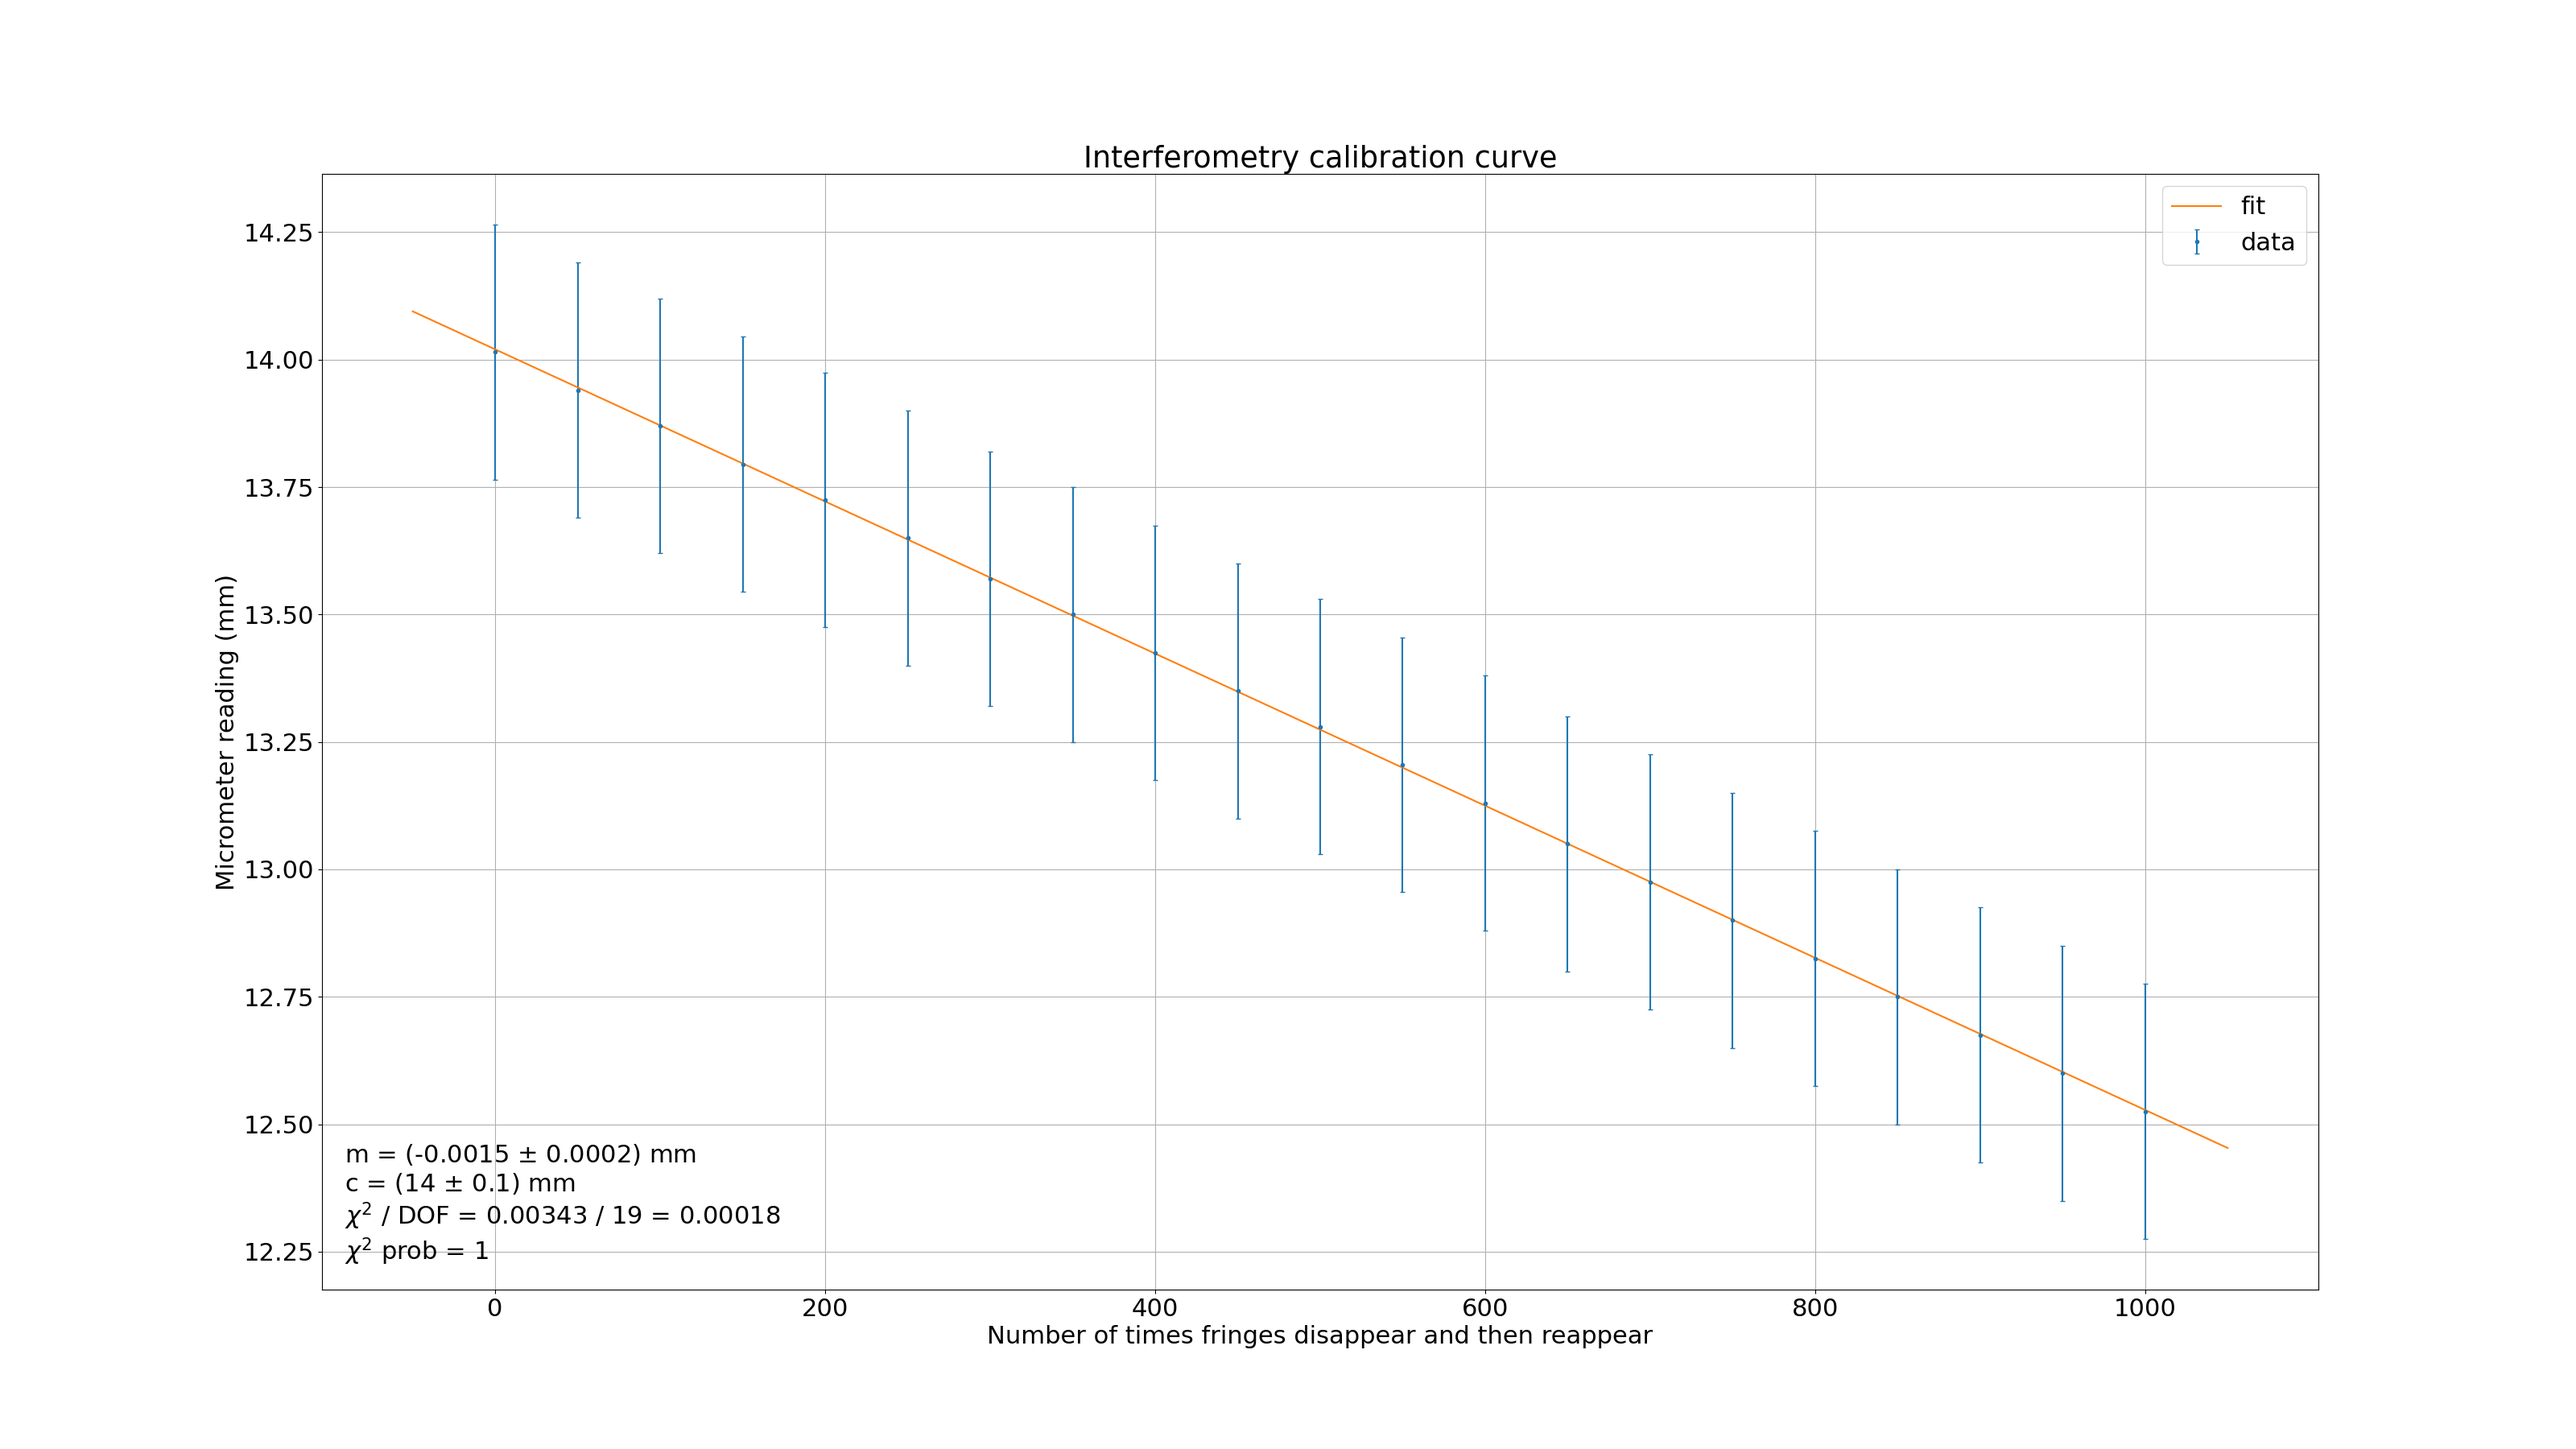
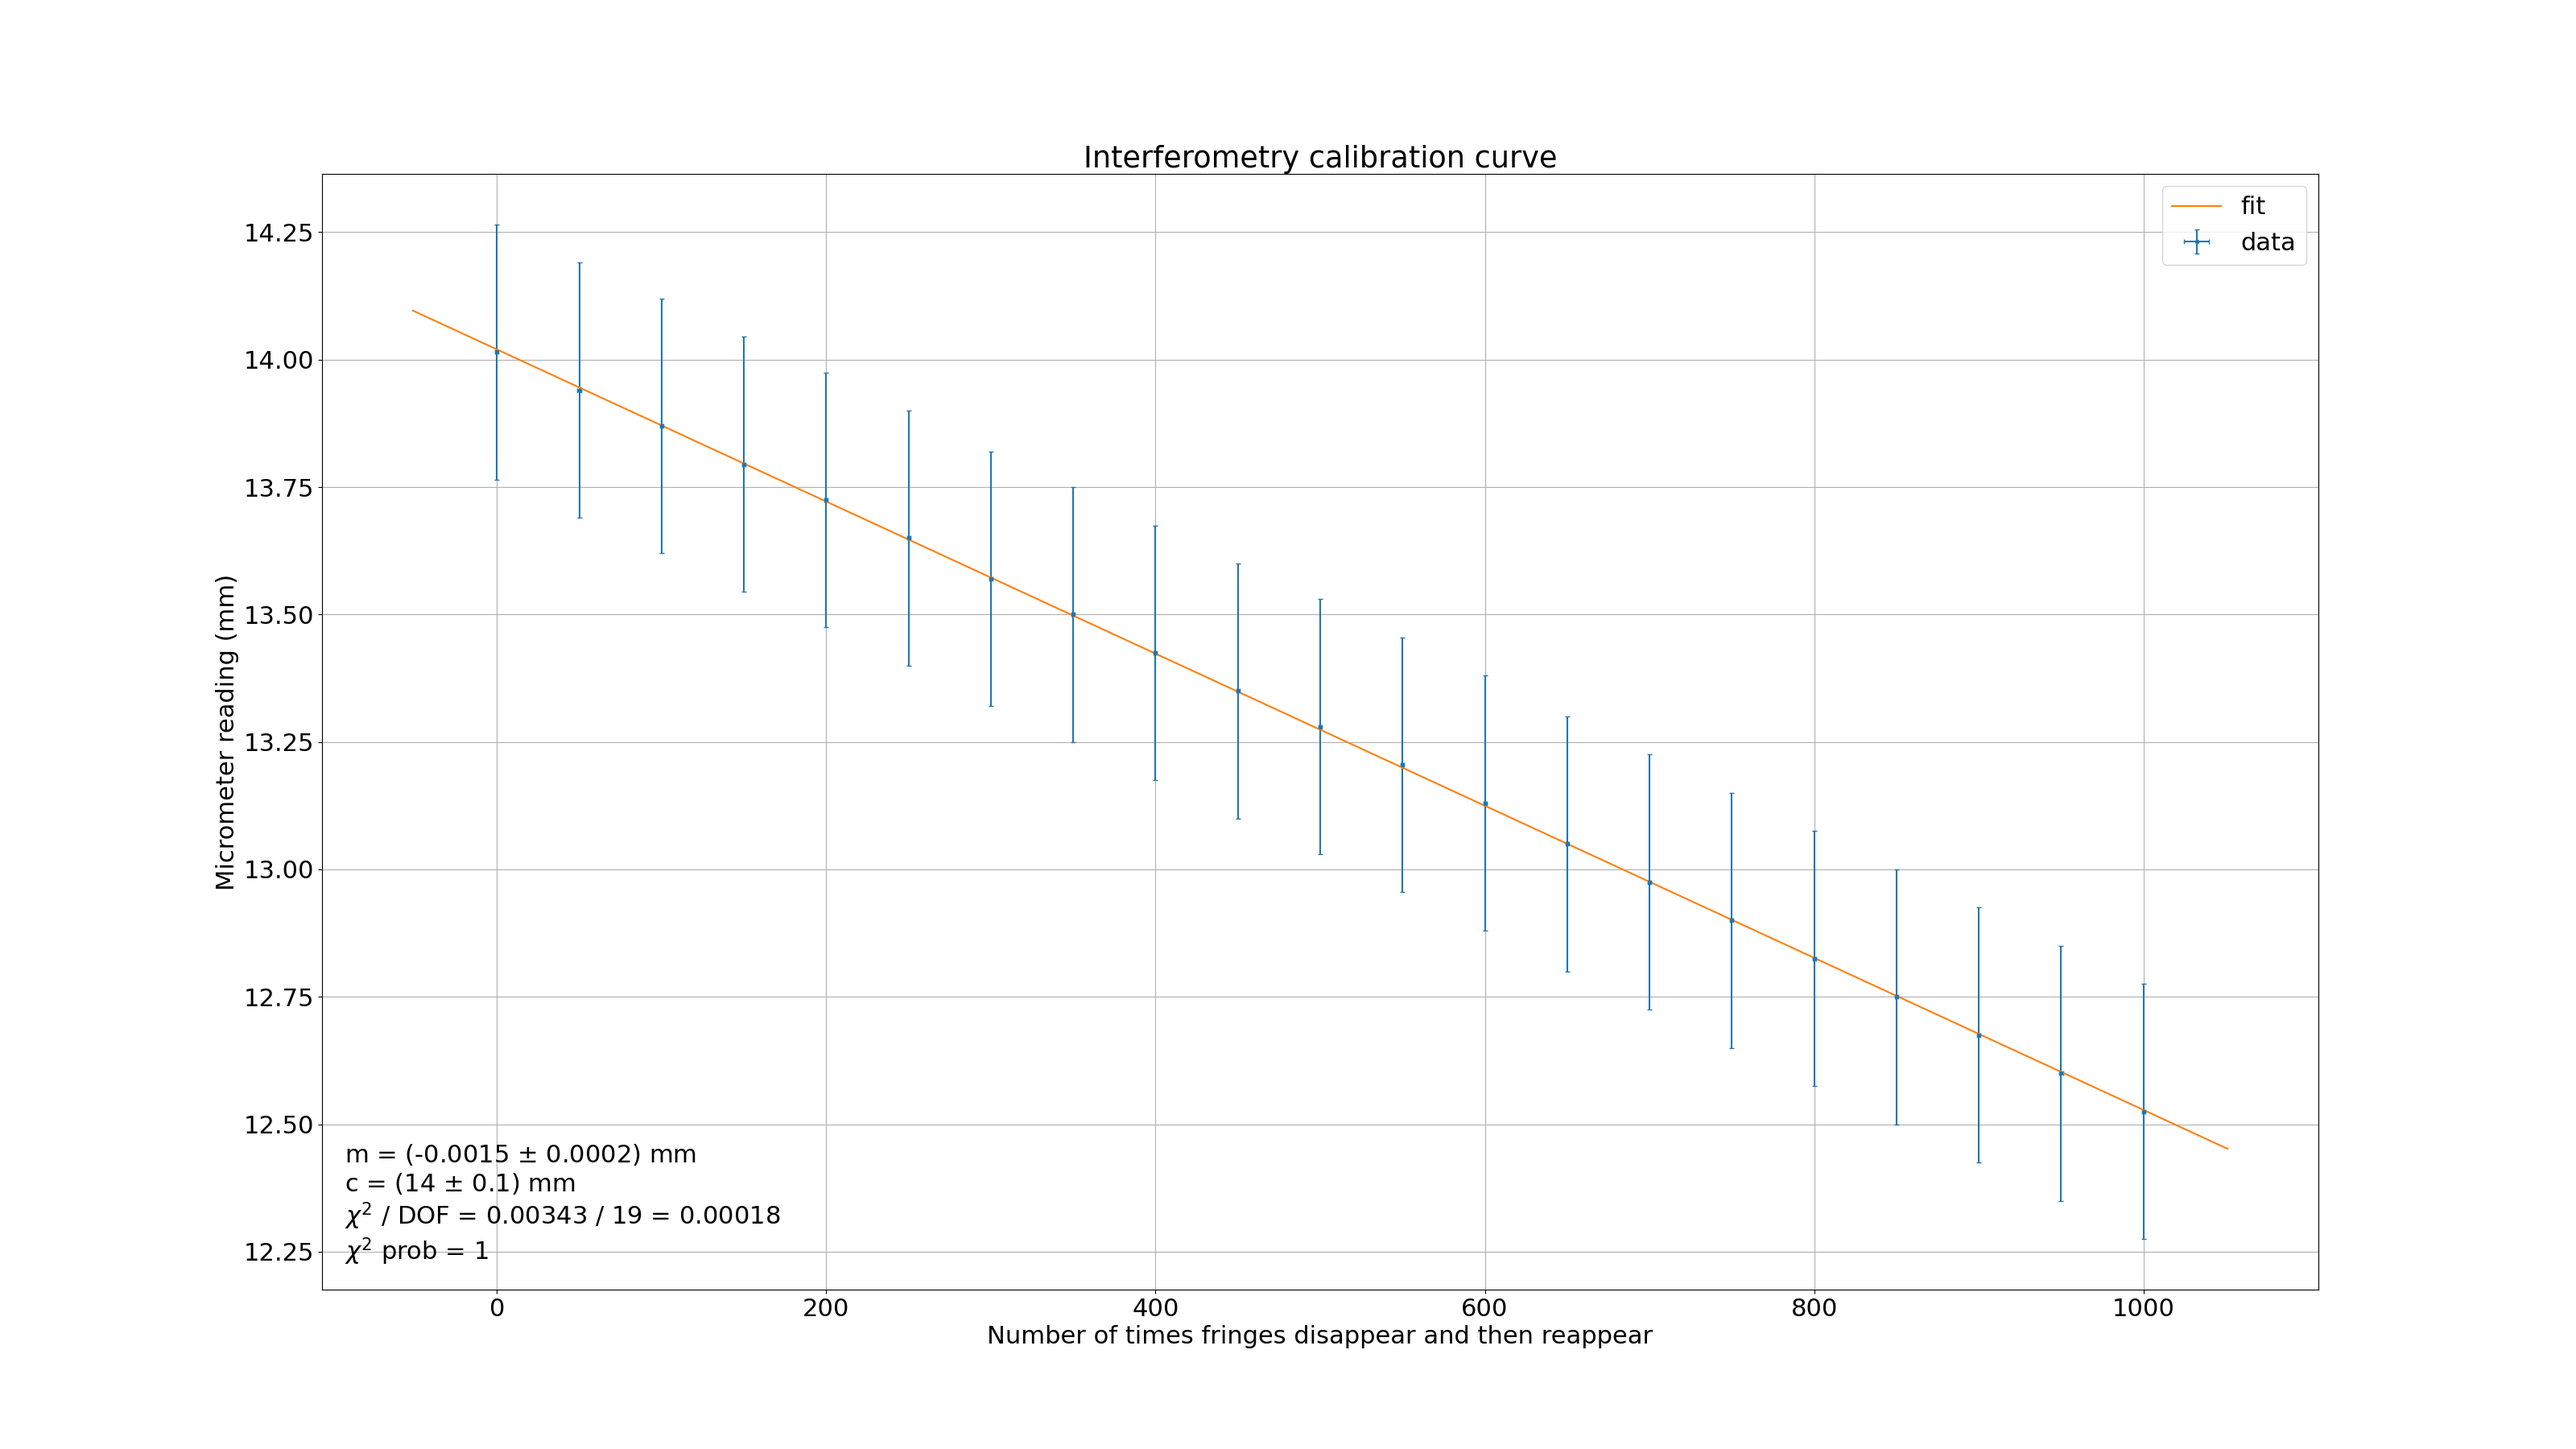
added x errors

Changed region(s): [[0.8125, 0.7467, 0.8438, 0.7778]]

diff --git a/fitting.py b/fitting.py
@@ -12,9 +12,10 @@ from fitting_and_analysis import Output
 Output = Output()
 
 class Fitting():
-    def __init__(self, model, x, y_measured, y_error, p0=None):
+    def __init__(self, model, x, y_measured, y_error, x_error=None, p0=None):
         self.model = model
         self.x = x
+        self.x_error = x_error
         self.y_measured = y_measured
         self.y_error = y_error
 
@@ -27,7 +28,7 @@ class Fitting():
 
     def plot_data_and_fit(self, ax, **kwargs):
 
-        Output.baseplot_errorbars_with_markers(ax=ax, x=self.x, y=self.y_measured, yerr=self.y_error, xerr=None, label='data')
+        Output.baseplot_errorbars_with_markers(ax=ax, x=self.x, y=self.y_measured, yerr=self.y_error, xerr=self.x_error, label='data')
 
         x_for_plotting_fit = np.linspace(*ax.get_xlim(), 10000)
 

diff --git a/main.py b/main.py
@@ -12,7 +12,7 @@ import fitting
 data = data_loader.DataLoader('PHY324_Interferometry_calibration_curve_data.txt')
 model = fit_models.Linear()
 
-fit = fitting.Fitting(model=model, x=data.x, y_measured=data.full_data, y_error=data.errors)
+fit = fitting.Fitting(model=model, x=data.x, x_error=data.x_error, y_measured=data.full_data, y_error=data.errors)
 
 fig, ax = plt.subplots(1, 1, figsize=(32, 18))
 

diff --git a/data_loader.py b/data_loader.py
@@ -16,4 +16,5 @@ class DataLoader():
 
         self.errors = np.zeros_like(self.zeroed_data) + instrumental_uncertainty.value
 
-        self.x = np.linspace(0, 1000, len(self.full_data), endpoint=True)
+        self.x = np.linspace(0, 1000, len(self.full_data), endpoint=True) * u.dimensionless_unscaled
+        self.x_error = 1 * u.dimensionless_unscaled
